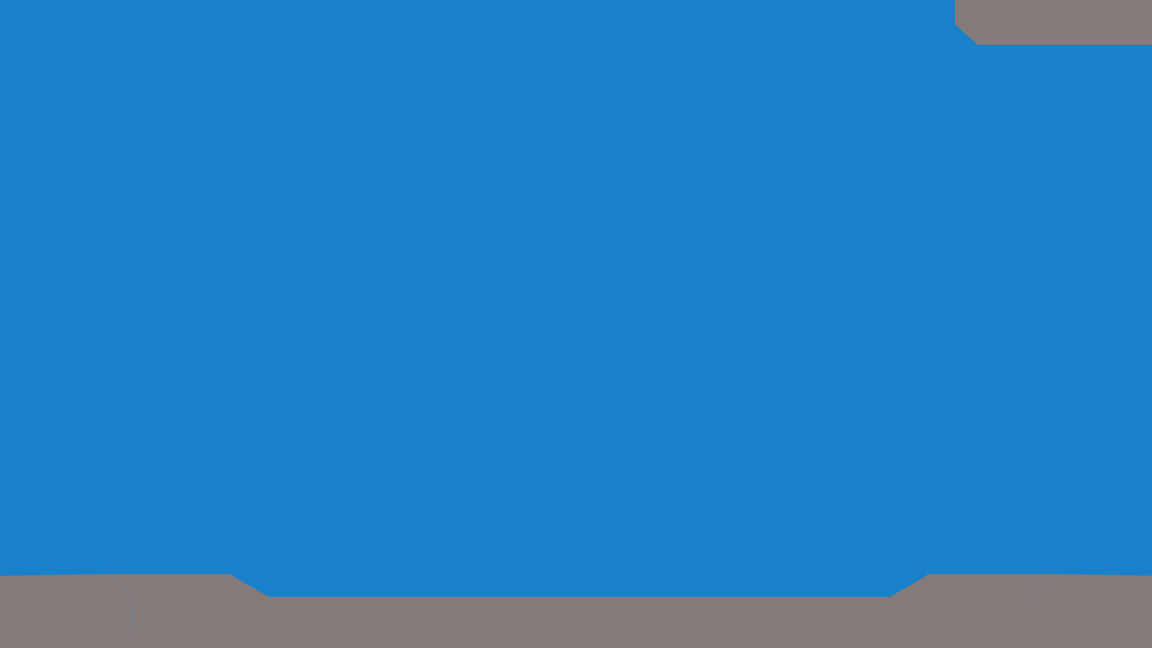
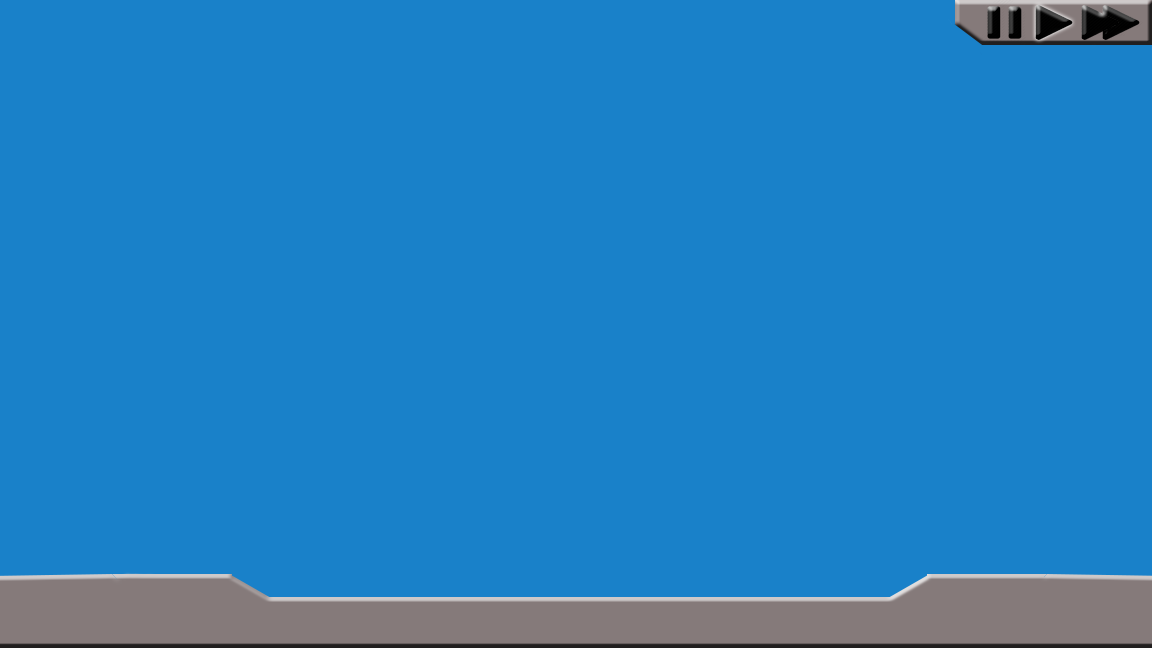
Multiple Backgrounds #41

diff --git a/source/graphics/Map.java b/source/graphics/Map.java
@@ -39,8 +39,11 @@ public class Map {
     private int imageWidth;
     private int imageHeight;
 
+    //For testing of different back grounds
+    private int backgroundNum = 0;
+
     private GameState state;
-    private BufferedImage background;
+    private BufferedImage [] background = new BufferedImage[3];
 
     // Create a new map.
     public Map(GameState state) {
@@ -51,7 +54,15 @@ public class Map {
         try {
             URL url = getClass().getResource("/data/assets/Background.png");
             String path = URLDecoder.decode(url.getPath(), "UTF-8");
-            background = ImageIO.read(new File(path));    
+            background[0] = ImageIO.read(new File(path));   
+
+            url = getClass().getResource("/data/assets/BackgroundPaused.png");
+            path = URLDecoder.decode(url.getPath(), "UTF-8");
+            background[1] = ImageIO.read(new File(path));    
+
+            url = getClass().getResource("/data/assets/BackgroundFast.png");
+            path = URLDecoder.decode(url.getPath(), "UTF-8");
+            background[2] = ImageIO.read(new File(path));    
         }
         catch (IOException exception) {
             exception.printStackTrace();
@@ -75,7 +86,7 @@ public class Map {
 
         // Render the background.
         if (background != null) {
-            g.drawImage(background, 0, 0,
+            g.drawImage(background[backgroundNum], 0, 0,
                         state.getWidth(),
                         state.getHeight(),
                         0, 0, imageWidth,

diff --git a/source/PolyClick.java b/source/PolyClick.java
@@ -17,16 +17,16 @@ class PolyClick implements MouseListener{
 
     private static final int NUM_REGIONS = 10;
 
-    //PolyMouseList poly;
     GameState state;
     Rectangle cash  = new Rectangle(0,577,230,71);
     Rectangle stats = new Rectangle(260,600,632,48);
     Rectangle share = new Rectangle(922,577,230,71);
-    Rectangle time = new Rectangle(955,0,197,48);
+    Rectangle pause = new Rectangle(980,0,50,48);
+    Rectangle play = new Rectangle(1020,0,50,48);
+    Rectangle fast = new Rectangle(1080,0,72,48);
 
 	public PolyClick(GameState state)
 	{
-		//poly = PolyMouseList.getInstance();
         this.state = state;
 	}
 
@@ -52,8 +52,14 @@ class PolyClick implements MouseListener{
         else if(stats.contains(p))
             System.out.println("Big STATS boy");
 
-        else if(time.contains(p))
-            System.out.println("Got time on my MIND");
+        else if(play.contains(p))
+            System.out.println("play");
+
+        else if(pause.contains(p))
+            System.out.println("pasue");
+
+        else if(fast.contains(p))
+            System.out.println("fast");
 
         else
         {

diff --git a/source/GameState.java b/source/GameState.java
@@ -26,6 +26,9 @@ public class GameState {
     private HashMap<String, Event> events;
     private HashMap<String, Region> regions;
 
+    //For background
+    private int backgroundNum = 0;
+
     // Create a new game state with some defaults.
     public GameState() throws SQLException, IOException {
 
